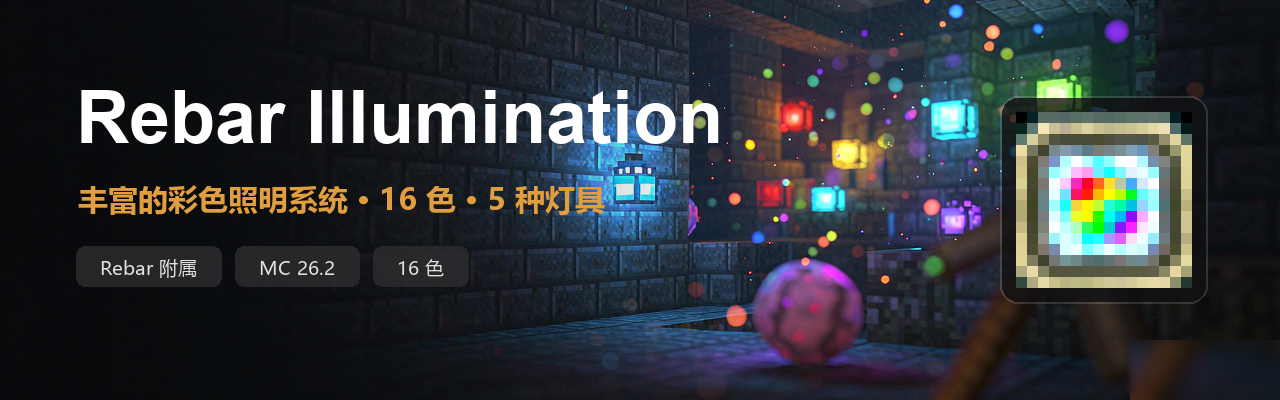
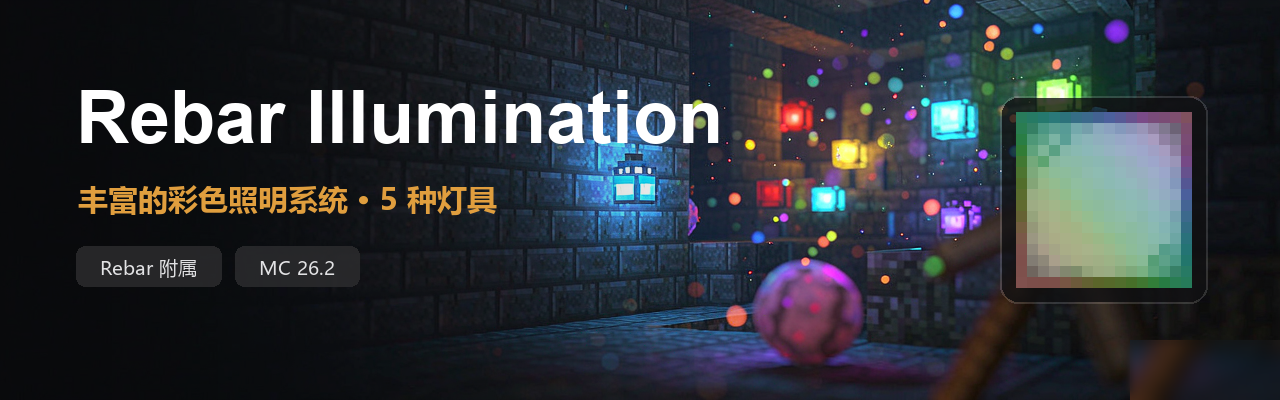
docs: switch English README to English header and refresh assets
- README.en.md now uses readme-header-en.png (English subtitle and badges)
- recolor Minecraft/Rebar badges to green/orange in both READMEs
- regenerate readme-header.png with the new 16x16 icon
- add assets/generate_readme_header.py plus assets/src sources for reproducible regeneration
- add icon.psd and the reference textures used to build the icon

diff --git a/assets/generate_readme_header.py b/assets/generate_readme_header.py
@@ -1,0 +1,130 @@
+# -*- coding: utf-8 -*-
+"""
+Generate the README header banner(s) and the 16x16 pixel icon for RebarIllumination.
+
+Outputs (relative to the project root, i.e. the parent of this script's folder):
+  - readme-header.png        Chinese banner  (default language)
+  - readme-header-en.png     English banner
+  - assets/icon-16x16.png    the 16x16 pixel lamp icon
+  - assets/icon-preview.png  256x256 upscaled preview of the icon
+
+Sources (kept next to this script so the repo is self-contained):
+  - assets/src/banner-background.png   (AI-generated dark blurred lamp scene)
+  - assets/src/icon.png                (the 16x16 pixel lamp icon, RGBA)
+
+Run:  python assets/generate_readme_header.py
+Deps: Pillow  (pip install pillow)
+Fonts: Windows system fonts under C:/Windows/Fonts (Segoe UI / Microsoft YaHei).
+"""
+import os
+from PIL import Image, ImageDraw, ImageFilter, ImageFont, ImageEnhance
+
+HERE = os.path.dirname(os.path.abspath(__file__))
+ROOT = os.path.dirname(HERE)                      # project root
+FONTS = r"C:\Windows\Fonts"
+
+SRC_BG = os.path.join(HERE, "src", "banner-background.png")
+SRC_ICON = os.path.join(HERE, "src", "icon.png")
+
+OUT_BANNER_ZH = os.path.join(ROOT, "readme-header.png")
+OUT_BANNER_EN = os.path.join(ROOT, "readme-header-en.png")
+OUT_ICON = os.path.join(HERE, "icon-16x16.png")
+OUT_ICON_PREVIEW = os.path.join(HERE, "icon-preview.png")
+
+
+def load_font(names, size):
+    for n in names:
+        try:
+            return ImageFont.truetype(os.path.join(FONTS, n), size)
+        except OSError:
+            continue
+    raise RuntimeError("Missing font, tried: %s" % names)
+
+
+def build_icon():
+    """Use assets/src/icon.png (16x16 RGBA) as-is, preserving transparency.
+
+    The source is already the final 16x16 icon, so no crop/upscaling is needed;
+    resize with NEAREST keeps pixel-art edges crisp, and RGBA is preserved so
+    the transparent background does not turn black.
+    """
+    icon = Image.open(SRC_ICON).convert("RGBA")
+    p16 = icon.resize((16, 16), Image.NEAREST)
+    p16.save(OUT_ICON, optimize=True)
+    p16.resize((256, 256), Image.NEAREST).save(OUT_ICON_PREVIEW)
+    return p16
+
+
+def build_banner(p16, subtitle, sub_size, badges):
+    """Compose one banner: remove watermark, add title + subtitle + badges + framed icon."""
+    banner = Image.open(SRC_BG).convert("RGB")
+    # remove the AI watermark in the bottom-right corner
+    patch_src = banner.crop((940, 340, 1090, 400))
+    patch = patch_src.filter(ImageFilter.GaussianBlur(8)).resize((150, 60))
+    banner.paste(patch, (1130, 340))
+    seam = banner.crop((1120, 335, 1280, 400)).filter(ImageFilter.GaussianBlur(4))
+    mask = Image.new("L", (160, 65), 0)
+    ImageDraw.Draw(mask).rounded_rectangle((6, 6, 154, 59), radius=10, fill=255)
+    banner.paste(seam, (1120, 335), mask.filter(ImageFilter.GaussianBlur(3)))
+
+    # dark gradient on the left for text readability
+    grad = Image.new("L", (1280, 1), 0)
+    for x in range(1280):
+        grad.putpixel((x, 0), int(max(0, 150 * (1 - x / 760.0))))
+    dark = Image.new("RGB", (1280, 400), (8, 8, 10))
+    banner = Image.composite(dark, banner, grad.resize((1280, 400)))
+
+    overlay = Image.new("RGBA", (1280, 400), (0, 0, 0, 0))
+    d = ImageDraw.Draw(overlay)
+
+    LX = 76
+    d.text((LX, 76), "Rebar Illumination",
+           font=load_font(["SegoeUIBlack.ttf", "arialbd.ttf", "segoeuib.ttf"], 74),
+           fill=(255, 255, 255, 255))
+    d.text((LX + 2, 178), subtitle,
+           font=load_font(["msyhbd.ttc", "msyh.ttc"], sub_size),
+           fill=(224, 158, 62, 255))
+
+    badge_font = load_font(["msyh.ttc"], 19)
+    bx, by, bh, gap, pad = LX, 246, 40, 14, 24
+    for t in badges:
+        w = d.textlength(t, font=badge_font)
+        d.rounded_rectangle((bx, by, bx + w + pad * 2, by + bh), radius=9,
+                            fill=(44, 44, 46, 210))
+        d.text((bx + pad, by + 8), t, font=badge_font, fill=(226, 226, 228, 255))
+        bx += w + pad * 2 + gap
+
+    banner = Image.alpha_composite(banner.convert("RGBA"), overlay)
+
+    # framed pixel icon on the right
+    PLATE = 208
+    px, py = 1280 - PLATE - 72, (400 - PLATE) // 2
+    plate = Image.new("RGBA", (PLATE, PLATE), (0, 0, 0, 0))
+    pd = ImageDraw.Draw(plate)
+    pd.rounded_rectangle((0, 0, PLATE - 1, PLATE - 1), radius=18, fill=(16, 16, 18, 200))
+    pd.rounded_rectangle((0, 0, PLATE - 1, PLATE - 1), radius=18,
+                         outline=(255, 255, 255, 36), width=2)
+    banner.alpha_composite(plate, (px, py))
+    big = p16.resize((176, 176), Image.NEAREST)
+    banner.alpha_composite(big.convert("RGBA"),
+                           (px + (PLATE - 176) // 2, py + (PLATE - 176) // 2))
+    return banner.convert("RGB")
+
+
+def main():
+    p16 = build_icon()
+    zh = build_banner(p16,
+                      "丰富的彩色照明系统 · 5 种灯具", 30,
+                      ["Rebar 附属", "MC 26.2"])
+    zh.save(OUT_BANNER_ZH, optimize=True)
+    en = build_banner(p16,
+                      "Colorful lights · 5 lamp types", 26,
+                      ["Rebar Addon", "MC 26.2"])
+    en.save(OUT_BANNER_EN, optimize=True)
+    print("Generated:")
+    for f in (OUT_BANNER_ZH, OUT_BANNER_EN, OUT_ICON, OUT_ICON_PREVIEW):
+        print("  ", os.path.relpath(f, ROOT))
+
+
+if __name__ == "__main__":
+    main()

diff --git a/README.en.md b/README.en.md
@@ -1,10 +1,10 @@
 # Rebar Illumination
 
-![Rebar Illumination](readme-header.png)
+![Rebar Illumination](readme-header-en.png)
 
 [![License](https://img.shields.io/badge/License-MIT-blue.svg)](https://opensource.org/licenses/MIT)
-[![Minecraft](https://img.shields.io/badge/Minecraft-26.2-blue.svg)](https://www.minecraft.net/)
-[![Rebar](https://img.shields.io/badge/Rebar-0.44.4--26.2-blue.svg)](https://github.com/pylonmc/rebar)
+[![Minecraft](https://img.shields.io/badge/Minecraft-26.2-green.svg)](https://www.minecraft.net/)
+[![Rebar](https://img.shields.io/badge/Rebar-0.44.4--26.2-orange.svg)](https://github.com/pylonmc/rebar)
 
 [中文版](README.md)
 

diff --git a/README.md b/README.md
@@ -3,8 +3,8 @@
 ![Rebar Illumination](readme-header.png)
 
 [![License](https://img.shields.io/badge/License-MIT-blue.svg)](https://opensource.org/licenses/MIT)
-[![Minecraft](https://img.shields.io/badge/Minecraft-26.2-blue.svg)](https://www.minecraft.net/)
-[![Rebar](https://img.shields.io/badge/Rebar-0.44.4--26.2-blue.svg)](https://github.com/pylonmc/rebar)
+[![Minecraft](https://img.shields.io/badge/Minecraft-26.2-green.svg)](https://www.minecraft.net/)
+[![Rebar](https://img.shields.io/badge/Rebar-0.44.4--26.2-orange.svg)](https://github.com/pylonmc/rebar)
 
 [English Version](README.en.md)
 
